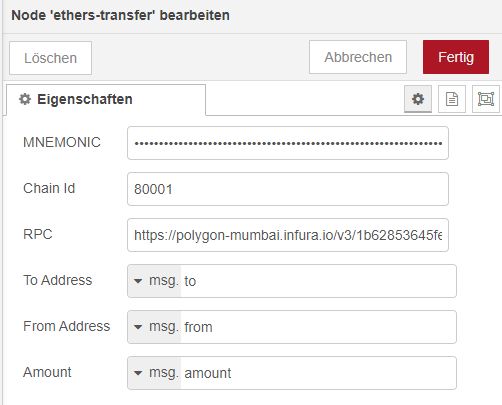
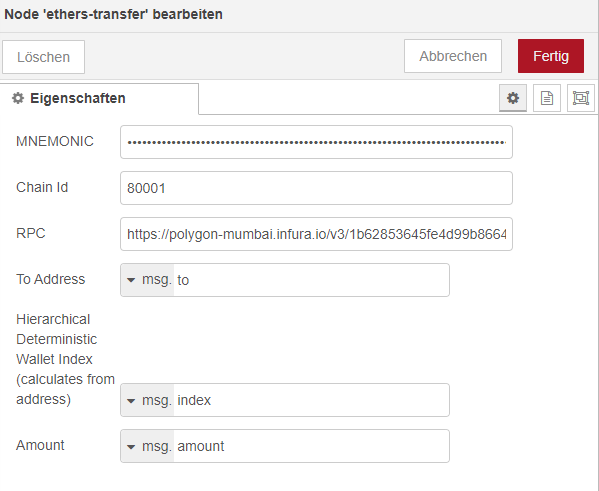
changed to hierarchical Deterministic Wallet Index

diff --git a/nodes/ethers-transfer.html b/nodes/ethers-transfer.html
@@ -5,7 +5,7 @@
         defaults: {
             chainId: {value: 80001},
             rpc: {value: ""},
-            fromAddress: {value: ""},
+            hierarchicalDeterministicWalletIndex: {value: 0},
             toAddress: {value: ""},
             amount: {value: 0},
 
@@ -20,10 +20,10 @@
             return this.name || "ethers-transfer";
         },
         oneditprepare: function () {
-            $("#node-input-fromAddress").typedInput({
+            $("#node-input-hierarchicalDeterministicWalletIndex").typedInput({
                 type: "msg",
                 types: ["msg", "flow", "global"],
-                typeField: "#node-input-fromAddress-type"
+                typeField: "#node-input-hierarchicalDeterministicWalletIndex-type"
             })
 
             $("#node-input-toAddress").typedInput({
@@ -60,9 +60,9 @@
         <input type="hidden" id="node-input-toAddress-type">
     </div>
     <div class="form-row">
-        <label for="node-input-fromAddress">From Address</label>
-        <input type="text" id="node-input-fromAddress">
-        <input type="hidden" id="node-input-fromAddress-type">
+        <label for="node-input-hierarchicalDeterministicWalletIndex">Hierarchical Deterministic Wallet Index (calculates from address)</label>
+        <input type="text" id="node-input-hierarchicalDeterministicWalletIndex">
+        <input type="hidden" id="node-input-hierarchicalDeterministicWalletIndex-type">
     </div>
     <div class="form-row">
         <label for="node-input-amount">Amount</label>

diff --git a/nodes/ethers-transfer.js b/nodes/ethers-transfer.js
@@ -8,14 +8,15 @@ module.exports = function (RED) {
 
         var node = this;
         node.on('input', function (msg) {
-            this.fromAddress = msg[config.fromAddress];
+            this.hierarchicalDeterministicWalletIndex = msg[config.hierarchicalDeterministicWalletIndex];
             this.toAddress = msg[config.toAddress];
             this.amount = msg[config.amount];
+            const path = `m/44'/60'/0'/0/${this.hierarchicalDeterministicWalletIndex}`
             let provider = new ethers.providers.JsonRpcProvider(this.rpc);
-            const wallet = ethers.Wallet.fromMnemonic(this.mnemonic).connect(provider);
+            const wallet = ethers.Wallet.fromMnemonic(this.mnemonic,path).connect(provider);
             wallet.sendTransaction({
                 to: this.toAddress,
-                from: this.fromAddress,
+                from: wallet.address,
                 value: ethers.utils.parseEther(this.amount)
             }).then(tx => {
                 provider.waitForTransaction(tx.hash).then(txReceipt => node.send({...msg, txReceipt}));
